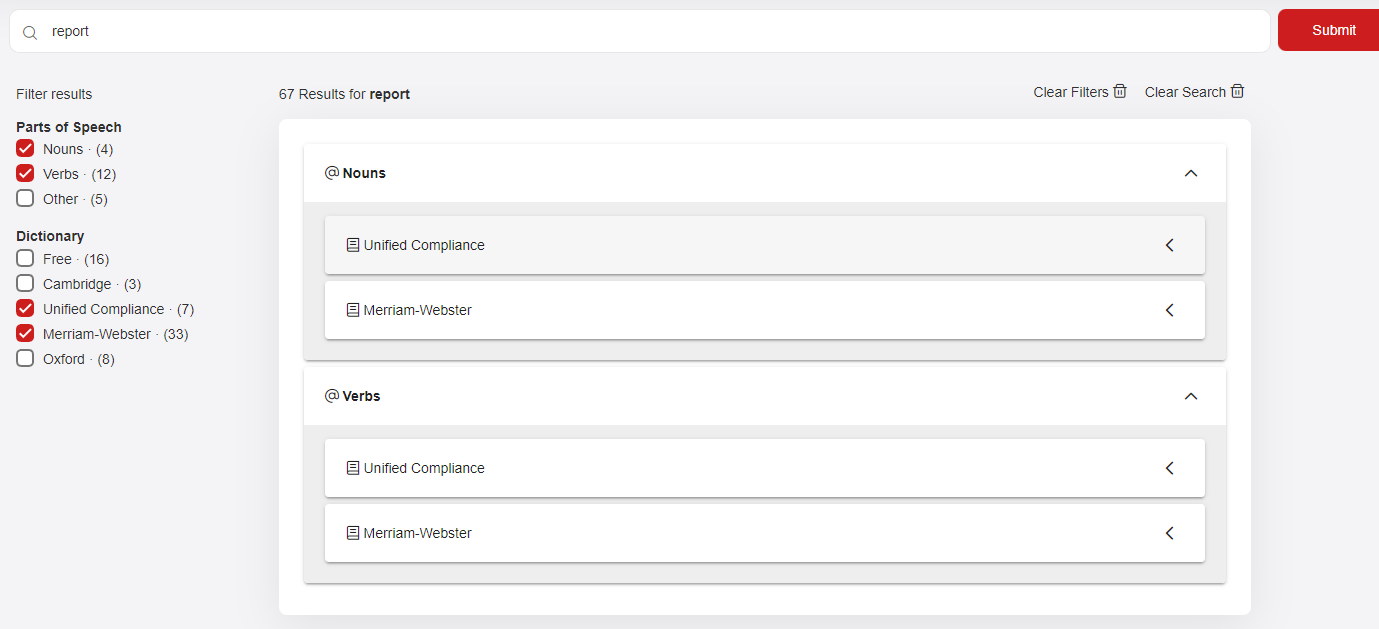
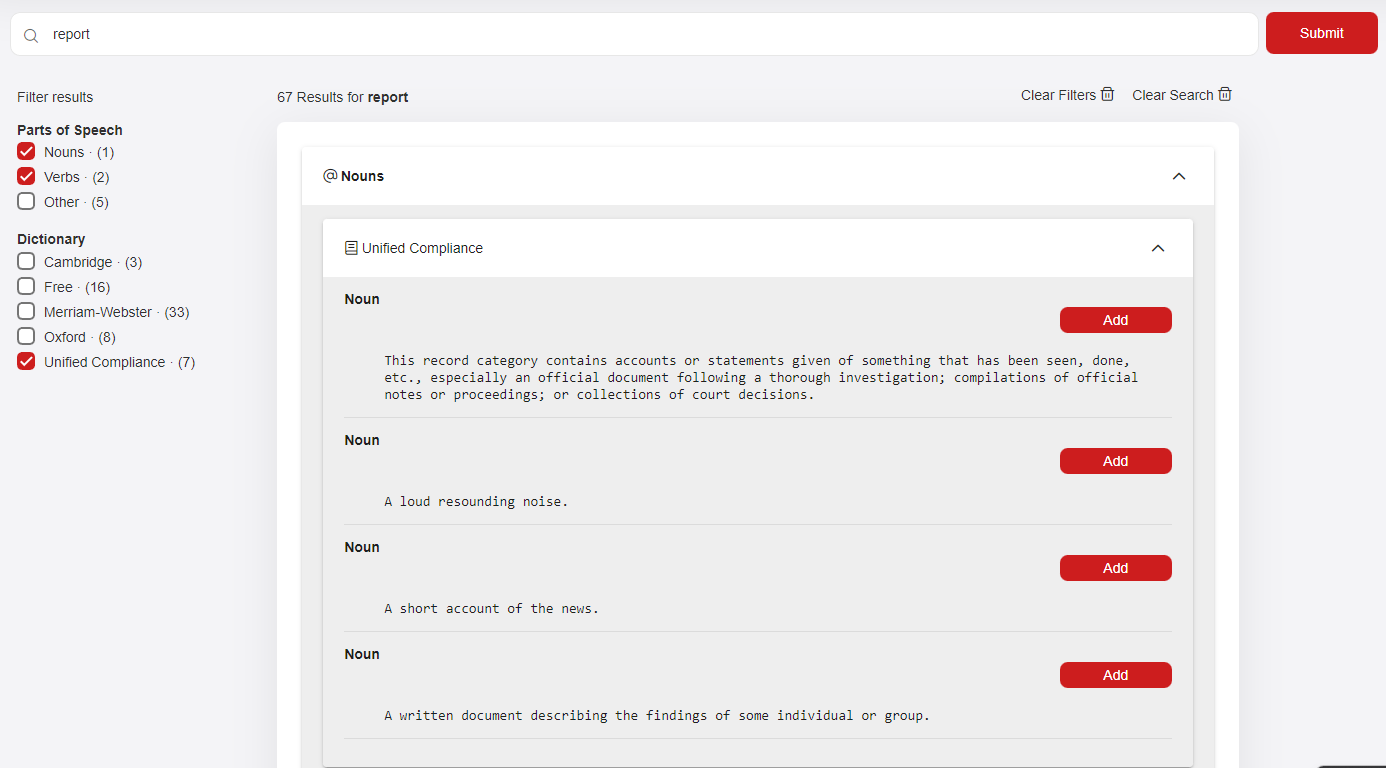
GITBOOK-36: change request with no subject merged in GitBook

diff --git a/plantuml.md b/plantuml.md
@@ -1,2 +1,27 @@
 # PlantUML
 
+The PlantUML module allows you to create, maintain and publish PlantUML diagrams.  All diagrams you create will be saved in your account and will be visible by all members of your team. &#x20;
+
+To create a PlantUML diagram, select _Create Diagram_ and then specify a Name, Type and Description (optional) and select _Continue_.  You will be taken to the diagram page where you can replace the default diagram with one of your own.  A preview of your diagram will be displayed, and once fully defined, select the _Save_ button.  From the edit diagram page you can also _Delete_ or _Export_ (PNG, SVG or TEXT format) your diagram.
+
+To return to the list of diagrams page, select the back arrow here:
+
+![](.gitbook/assets/image.png)
+
+From the listing page, you can search for diagrams using the main search bar and you can filter diagrams displayed by Visibility (Private or Community or All), Creator (who on your team created the diagram), and/or by Status (Draft, Submitted, Reviewed, Approved, or Rejected).  You can also sort the results by any of the columns displayed, ie. Diagram Name, Diagram Type, Creator, Modifier, Modified Date, Status or Visibility.  Simply click on the column name to sort in ascending order or click it again to sort in descending order.
+
+Single click on a row in the listing page to enter _Preview Mode_ for the diagram.  Double click on a row in the listing page to go directly to Edit Mode where you can modify the definition of the diagram.
+
+On the far right of a row in the listing page is the _Action_ menu.  Here you can perform a number of actions on a diagram, for example:
+
+* Publish - make the diagram visible to the Community
+* Rename - modify the Name, Type or Description of the diagram
+* Edit - change the definition of the diagram
+* Duplicate - make a copy of the diagram
+* Delete - remove the diagram
+
+Access the _Action_ menu here:
+
+![](<.gitbook/assets/image (5).png>)
+
+Enjoy making PlantUML diagrams!

diff --git a/dictionary.md b/dictionary.md
@@ -10,11 +10,11 @@ By default (unless a pre-filter on Dictionary provider was set), the system will
 
 None of the checkboxes are checked meaning the results apply to all of them.  Filter the results by checking one or more of the checkboxes.  For example, selecting Nouns and Verbs as the parts of speech, and , Unified Compliance and Merriam-Webster as the dictionaries will result in:
 
-![](<.gitbook/assets/image (1).png>)
+![](<.gitbook/assets/image (1) (1).png>)
 
 To see the results for a particular part-of-speech and dictionary, select the drop-down accordion of the part-of-speech first followed by the drop-down accordion of the dictionary:
 
-![](.gitbook/assets/image.png)
+![](<.gitbook/assets/image (1).png>)
 
 Here you will see the possible definitions for the selected part-of-speech.
 
